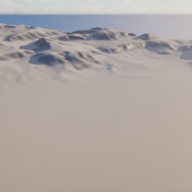
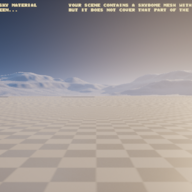
[UE5] Added DataAsset Themes, Menu Alignment & Editor improvements

diff --git a/TFG_Unreal/Source/TFG_Unreal/Private/ModularMenu.cpp b/TFG_Unreal/Source/TFG_Unreal/Private/ModularMenu.cpp
@@ -36,6 +36,12 @@ void UModularMenu::NativePreConstruct()
     PopulateMenu();
 }
 
+void UModularMenu::SynchronizeProperties()
+{
+    Super::SynchronizeProperties();
+    PopulateMenu();
+}
+
 void UModularMenu::BuildWidgetTree()
 {
     CanvasPanel = WidgetTree->ConstructWidget<UCanvasPanel>(UCanvasPanel::StaticClass(), TEXT("CanvasPanel"));
@@ -48,21 +54,55 @@ void UModularMenu::BuildWidgetTree()
 
     GridPanel = WidgetTree->ConstructWidget<UGridPanel>(UGridPanel::StaticClass(), TEXT("GridPanel"));
     UCanvasPanelSlot* GSlot = CanvasPanel->AddChildToCanvas(GridPanel);
-    GSlot->SetAnchors(FAnchors(0.0f, 0.0f, 1.0f, 1.0f));
-    GSlot->SetOffsets(FMargin(0.0f));
+    GSlot->SetAutoSize(true);
 }
 
 void UModularMenu::SetupBackground()
 {
-    if (BackgroundWidget && BackgroundImage)
+    if (BackgroundWidget)
     {
-        BackgroundWidget->SetBrushFromTexture(BackgroundImage);
+        if (MenuTheme && MenuTheme->BackgroundImage)
+        {
+            BackgroundWidget->SetBrushFromTexture(MenuTheme->BackgroundImage);
+        }
+        else if (BackgroundImage)
+        {
+            BackgroundWidget->SetBrushFromTexture(BackgroundImage);
+        }
     }
 }
 
 void UModularMenu::PopulateMenu()
 {
-    if (!GridPanel) return;
+    if (!GridPanel || !CanvasPanel) return;
+
+    // Update Menu Alignment
+    if (UCanvasPanelSlot* GSlot = Cast<UCanvasPanelSlot>(GridPanel->Slot))
+    {
+        FVector2D Anchor(0.5f, 0.5f);
+        FVector2D Alignment(0.5f, 0.5f);
+
+        switch (MenuHorizontalAlignment)
+        {
+        case HAlign_Left: Anchor.X = 0.0f; Alignment.X = 0.0f; break;
+        case HAlign_Center: Anchor.X = 0.5f; Alignment.X = 0.5f; break;
+        case HAlign_Right: Anchor.X = 1.0f; Alignment.X = 1.0f; break;
+        case HAlign_Fill: Anchor.X = 0.5f; Alignment.X = 0.5f; break; // Fill not supported for point anchoring
+        }
+
+        switch (MenuVerticalAlignment)
+        {
+        case VAlign_Top: Anchor.Y = 0.0f; Alignment.Y = 0.0f; break;
+        case VAlign_Center: Anchor.Y = 0.5f; Alignment.Y = 0.5f; break;
+        case VAlign_Bottom: Anchor.Y = 1.0f; Alignment.Y = 1.0f; break;
+        case VAlign_Fill: Anchor.Y = 0.5f; Alignment.Y = 0.5f; break;
+        }
+
+        GSlot->SetAnchors(FAnchors(Anchor.X, Anchor.Y));
+        GSlot->SetAlignment(Alignment);
+        GSlot->SetAutoSize(true);
+        GSlot->SetOffsets(FMargin(0.0f));
+    }
 
     TArray<UWidget*> Children = GridPanel->GetAllChildren();
     for (UWidget* Child : Children)
@@ -134,32 +174,50 @@ void UModularMenu::CreateButton(const FUIElementConfig& Config, int32 AutoRow)
     UTextBlock* Label = WidgetTree->ConstructWidget<UTextBlock>();
 
     Label->SetText(Config.ButtonText);
-    Label->SetColorAndOpacity(FSlateColor(Config.ButtonTextColor));
+
+    FSlateColor TextColor = FSlateColor(Config.ButtonTextColor);
+    int32 FontSize = Config.ButtonFontSize;
+    FVector2D BtnSize = Config.ButtonSize;
+    UTexture2D* NormalTex = Config.ButtonNormalTexture;
+    UTexture2D* HoveredTex = Config.ButtonHoveredTexture;
+    UTexture2D* PressedTex = Config.ButtonPressedTexture;
+
+    if (MenuTheme)
+    {
+        TextColor = FSlateColor(MenuTheme->ButtonTextColor);
+        FontSize = MenuTheme->ButtonFontSize;
+        BtnSize = MenuTheme->ButtonSize;
+        if (MenuTheme->ButtonNormalTexture) NormalTex = MenuTheme->ButtonNormalTexture;
+        if (MenuTheme->ButtonHoveredTexture) HoveredTex = MenuTheme->ButtonHoveredTexture;
+        if (MenuTheme->ButtonPressedTexture) PressedTex = MenuTheme->ButtonPressedTexture;
+    }
+
+    Label->SetColorAndOpacity(TextColor);
 
     FSlateFontInfo Font = Label->GetFont();
-    Font.Size = Config.ButtonFontSize;
+    Font.Size = FontSize;
     Label->SetFont(Font);
 
     Button->AddChild(Label);
 
     FButtonStyle BtnStyle = Button->GetStyle();
-    BtnStyle.Normal.ImageSize = Config.ButtonSize;
-    BtnStyle.Hovered.ImageSize = Config.ButtonSize;
-    BtnStyle.Pressed.ImageSize = Config.ButtonSize;
+    BtnStyle.Normal.ImageSize = BtnSize;
+    BtnStyle.Hovered.ImageSize = BtnSize;
+    BtnStyle.Pressed.ImageSize = BtnSize;
 
-    if (Config.ButtonNormalTexture)
+    if (NormalTex)
     {
-        BtnStyle.Normal.SetResourceObject(Config.ButtonNormalTexture);
+        BtnStyle.Normal.SetResourceObject(NormalTex);
         BtnStyle.Normal.DrawAs = ESlateBrushDrawType::Image;
     }
-    if (Config.ButtonHoveredTexture)
+    if (HoveredTex)
     {
-        BtnStyle.Hovered.SetResourceObject(Config.ButtonHoveredTexture);
+        BtnStyle.Hovered.SetResourceObject(HoveredTex);
         BtnStyle.Hovered.DrawAs = ESlateBrushDrawType::Image;
     }
-    if (Config.ButtonPressedTexture)
+    if (PressedTex)
     {
-        BtnStyle.Pressed.SetResourceObject(Config.ButtonPressedTexture);
+        BtnStyle.Pressed.SetResourceObject(PressedTex);
         BtnStyle.Pressed.DrawAs = ESlateBrushDrawType::Image;
     }
     Button->SetStyle(BtnStyle);
@@ -167,7 +225,7 @@ void UModularMenu::CreateButton(const FUIElementConfig& Config, int32 AutoRow)
     ButtonConfigMap.Add(Button, Config);
     Button->OnClicked.AddDynamic(this, &UModularMenu::OnDynamicButtonClicked);
 
-    AddToGrid(Button, Config, AutoRow, Config.ButtonSize);
+    AddToGrid(Button, Config, AutoRow, BtnSize);
 }
 
 void UModularMenu::CreateSlider(const FUIElementConfig& Config, int32 AutoRow)
@@ -233,10 +291,20 @@ void UModularMenu::CreateLabel(const FUIElementConfig& Config, int32 AutoRow)
 {
     UTextBlock* TextBlock = WidgetTree->ConstructWidget<UTextBlock>();
     TextBlock->SetText(Config.LabelText);
-    TextBlock->SetColorAndOpacity(FSlateColor(Config.LabelTextColor));
+    
+    FSlateColor TextColor = FSlateColor(Config.LabelTextColor);
+    int32 FontSize = Config.LabelFontSize;
+
+    if (MenuTheme)
+    {
+        TextColor = FSlateColor(MenuTheme->LabelTextColor);
+        FontSize = MenuTheme->LabelFontSize;
+    }
+
+    TextBlock->SetColorAndOpacity(TextColor);
 
     FSlateFontInfo Font = TextBlock->GetFont();
-    Font.Size = Config.LabelFontSize;
+    Font.Size = FontSize;
     TextBlock->SetFont(Font);
 
     AddToGrid(TextBlock, Config, AutoRow, Config.LabelSize);

diff --git a/TFG_Unreal/Source/TFG_Unreal/Public/UITypes.h b/TFG_Unreal/Source/TFG_Unreal/Public/UITypes.h
@@ -197,3 +197,40 @@ struct FUIElementConfig
         meta = (EditCondition = "Type == EUIElementType::Spacer", EditConditionHides))
     float SpacerHeight = 20.0f;
 };
+
+UCLASS(BlueprintType)
+class TFG_UNREAL_API UUITheme : public UDataAsset
+{
+    GENERATED_BODY()
+
+public:
+    // Button Style
+    UPROPERTY(EditAnywhere, BlueprintReadWrite, Category = "Theme|Button")
+    UTexture2D* ButtonNormalTexture = nullptr;
+
+    UPROPERTY(EditAnywhere, BlueprintReadWrite, Category = "Theme|Button")
+    UTexture2D* ButtonHoveredTexture = nullptr;
+
+    UPROPERTY(EditAnywhere, BlueprintReadWrite, Category = "Theme|Button")
+    UTexture2D* ButtonPressedTexture = nullptr;
+
+    UPROPERTY(EditAnywhere, BlueprintReadWrite, Category = "Theme|Button")
+    FLinearColor ButtonTextColor = FLinearColor::White;
+
+    UPROPERTY(EditAnywhere, BlueprintReadWrite, Category = "Theme|Button")
+    int32 ButtonFontSize = 24;
+
+    UPROPERTY(EditAnywhere, BlueprintReadWrite, Category = "Theme|Button")
+    FVector2D ButtonSize = FVector2D(300.0f, 60.0f);
+
+    // Label Style
+    UPROPERTY(EditAnywhere, BlueprintReadWrite, Category = "Theme|Label")
+    FLinearColor LabelTextColor = FLinearColor::White;
+
+    UPROPERTY(EditAnywhere, BlueprintReadWrite, Category = "Theme|Label")
+    int32 LabelFontSize = 48;
+
+    // General
+    UPROPERTY(EditAnywhere, BlueprintReadWrite, Category = "Theme|General")
+    UTexture2D* BackgroundImage = nullptr;
+};

diff --git a/TFG_Unreal/Source/TFG_Unreal/Public/ModularMenu.h b/TFG_Unreal/Source/TFG_Unreal/Public/ModularMenu.h
@@ -18,9 +18,19 @@ class TFG_UNREAL_API UModularMenu : public UUserWidget
 protected:
 
     virtual void NativePreConstruct() override;
+    virtual void SynchronizeProperties() override;
 
     UPROPERTY(EditAnywhere, BlueprintReadWrite, Category = "Menu Config")
     TArray<FUIElementConfig> MenuElements;
+
+    UPROPERTY(EditAnywhere, BlueprintReadWrite, Category = "Menu Config")
+    UUITheme* MenuTheme = nullptr;
+
+    UPROPERTY(EditAnywhere, BlueprintReadWrite, Category = "Menu Config")
+    TEnumAsByte<EHorizontalAlignment> MenuHorizontalAlignment = HAlign_Center;
+
+    UPROPERTY(EditAnywhere, BlueprintReadWrite, Category = "Menu Config")
+    TEnumAsByte<EVerticalAlignment> MenuVerticalAlignment = VAlign_Center;
 
     UPROPERTY(EditAnywhere, BlueprintReadWrite, Category = "Menu Config")
     UTexture2D* BackgroundImage = nullptr;